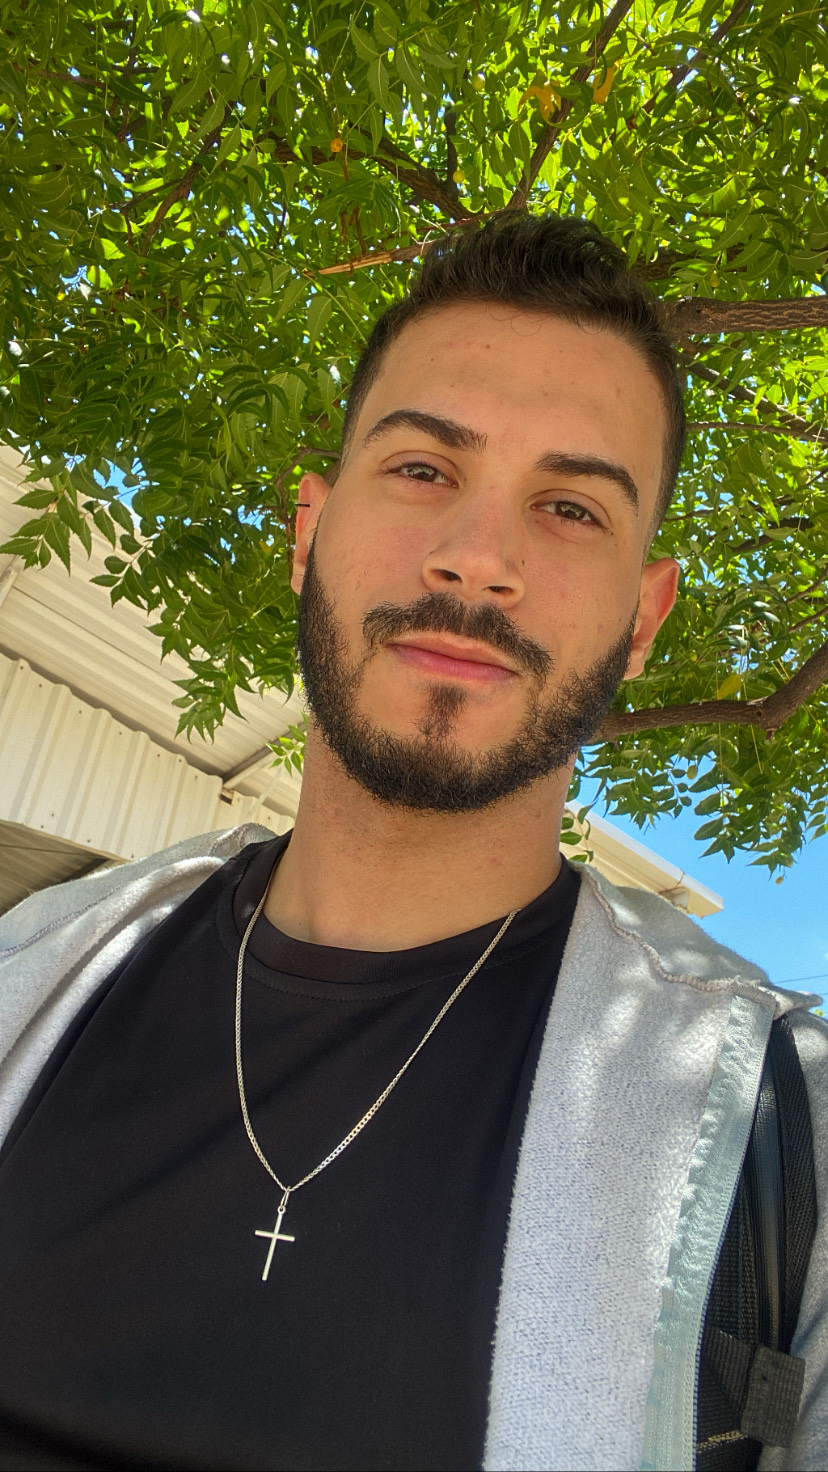
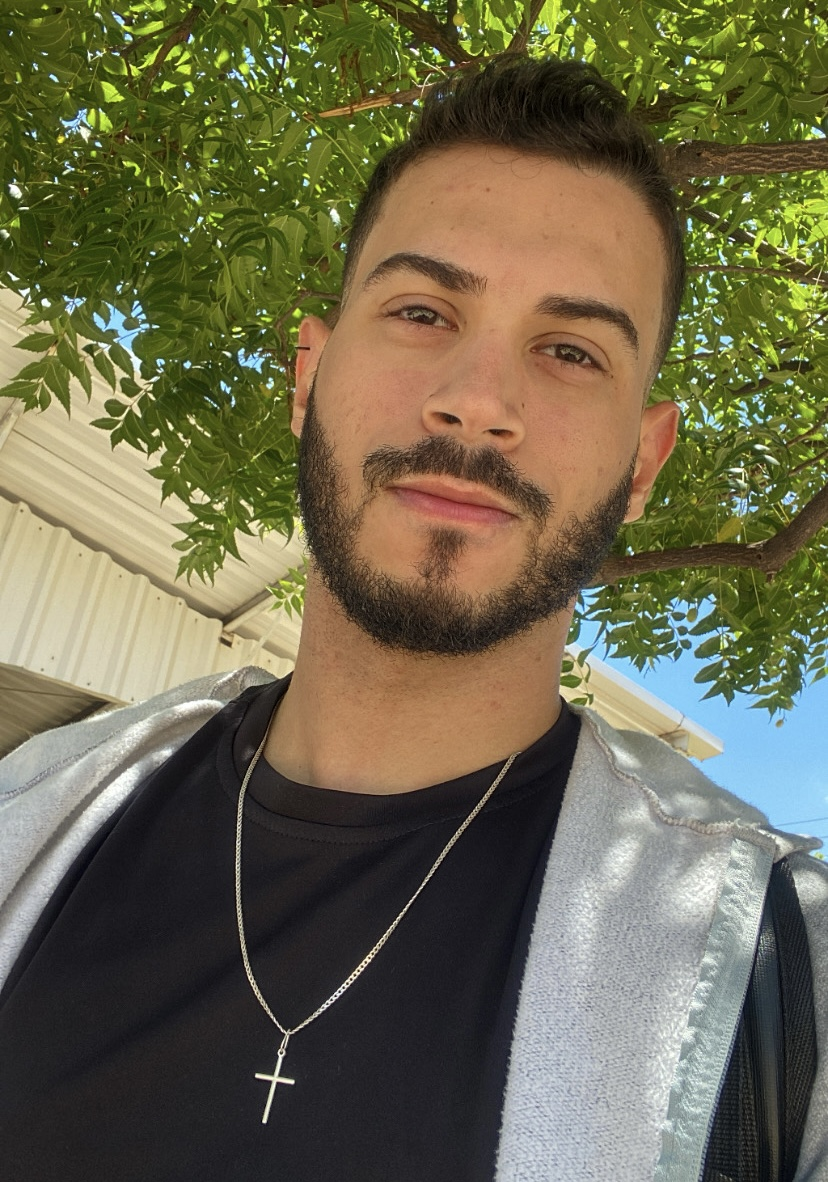
Melhorias de Interface

diff --git a/style.css b/style.css
@@ -1,7 +1,9 @@
 body {
     margin: 0;
-    padding: 4em 0;
-    background-color: #11212d;
+    padding: 0;
+    /*background-color: #11212d;*/
+    /*background-color: rgb(22,20,27);*/
+    background-color: rgb(26, 23, 32);
     color: aliceblue;
     font-family: Arial, Helvetica, sans-serif;
 }
@@ -38,8 +40,23 @@ nav.Main-Bar a:hover{
 }
 
 .Presentation{
+    padding-top: 4em;
     text-align: center;
-    margin-bottom: 8em;
+    margin-bottom: 5em;
+    position: relative;
+   
+}
+
+.Presentation img {
+    position: absolute;
+    top: 0;
+    left: 0;
+    object-fit: cover;
+    z-index: -1;
+    width: 100%;
+    height: 15em;
+    opacity: 0.06;
+
 }
 
 .Presentation span{
@@ -48,53 +65,43 @@ nav.Main-Bar a:hover{
 
 
 .Presentation p{
-    margin-top: 3em;
+    margin-top: 2em;
     font-size: 15px;
     
 }
 
 .AboutMe {
-
     background-color: rgba(22,20,27,0.6);
     text-align: center;
-    border-radius: 5px;
     margin-bottom: 8em;
 }
 
 .AboutMe div .Image {
     width: 200px;
     height: 200px;
-    border-radius: 50%;
-    overflow: hidden;
 }
-
-.AboutMe div .Image img {
-    width: 100%;
-    height: 100%;
-    object-fit: cover;
-    object-position: 60% 25%;
-}
-
 
 .AboutMe h2 {
+    padding-top: 0.3em;
     color: rgb(224, 173, 3);
 }
 
 .AboutMe div {
     display: flex;
+    /*align-items: center;*/
+
 }
 
 .AboutMe img {
-    width: 200px;
-    border-radius: 50%;
-    overflow: hidden;
+    width: 150px;
+    margin-left: 16em;
 }
 
 
 .AboutMe p {
-    width: 60%;
-    margin: 3em auto 1em auto;
-   margin-top: 3em;
+    width: 35%;
+    padding: 0 2.5em 0 2.5em;
+    text-align: justify;
 }
 
 
@@ -119,14 +126,24 @@ nav.Main-Bar a:hover{
     margin: 0em 1.5em;
     padding: 1em 2em 4em 2em;
     padding-bottom: 4em;
+    /*background-color: rgba(22,20,27,0.6);*/
+    /*background-color: #11212d;*/
     background-color: rgba(22,20,27,0.6);
     border-radius: 1.2em;
 
 }
 
+.Projects ul li a {
+    color: aliceblue;
+    text-decoration: none;
+}
+
+.Projects ul li a:hover {
+    text-decoration: underline;
+}
+
 .Contact {
     text-align: center;
-    margin-bottom: 8em;
 }
 
 .Contact h2 {
@@ -134,21 +151,34 @@ nav.Main-Bar a:hover{
 }
 
 .Contact button {
-    background-color: aliceblue;
+    background-color: rgb(224, 173, 3);
+    /*background-color: aliceblue;*/
     color: rgb(22,20,27);
     padding: 0.5em;
-    margin: 1.5em 3em;
+    margin: 1.5em 2em;
     border-radius: 1.5em;
     border-color: rgb(22,20,27);
 }
 
-.Contact button:hover {
-    background-color: rgb(224, 173, 3);
+.Contact button:hover{
+    background-color: #11212d;
 }
 
 
 .Contact a {
     text-decoration: none;
+    /*color: rgb(22,20,27);*/
     color: rgb(22,20,27);
 }
 
+.Contact a:hover {
+    color: white;
+}
+
+footer {
+    /*background-color: rgb(22,20,27);*/
+    /*background-color: #11212d;*/
+    background-color: rgba(22,20,27,0.6);
+    text-align: center;
+    padding: 0.1em 0 0.1em 0;
+}

diff --git a/index.html b/index.html
@@ -11,8 +11,8 @@
     <header>
         <img src="WA_semfundo.png" alt="logo com as letras W e A" class="Logo" >
         <nav class="Main-Bar">
-            <a href="index.html">Home</a>
-            <a href="">Sobre mim</a>
+            <a href="index.html">Início</a>
+
             <a href="">Projetos</a>
             <a href="">Contato</a>    
         </nav>
@@ -20,8 +20,9 @@
 
     <section class="Presentation">
         <h2>Olá, eu sou <span>Welison Andrade</span></h2>
-        <p class="Description">Estudante de sistemas de informação na UFPI, com a aspiração de se tornar um engenheiro de software no exterior.
+        <p class="Description">Estudante de sistemas de informação na UFPI, com o sonho de se tornar um engenheiro de software no exterior.
         </p>
+        <img src="cold_mountains.jpg" alt="background de uma montanha cheia de neve">
     </section>
 
 
@@ -29,9 +30,7 @@
     <section class="AboutMe">
         <h2>Sobre mim</h2>
         <div>
-            <div class="Image">
-                <img src="me.JPG" alt="foto de Welison Andrade">
-            </div>
+            <img src="me.JPG" alt="foto de Welison Andrade class="Image">
             <p>23 anos, Bacharelando em Sistemas de Informação e aspirante a Engenheiro de Software, minha jornada acadêmica é dedicada à exploração das complexidades da tecnologia da informação e ao aprimoramento das habilidades necessárias para enfrentar os desafios do desenvolvimento de software. Estou imerso em estudos e projetos que me permitem compreender as melhores práticas e metodologias para criar soluções digitais robustas e inovadoras.</p>
         </div>
         
@@ -41,13 +40,15 @@
     <section class="Projects">
         <h2>Projetos</h2>
         <ul>
-            <li>Exemplo 1</li>
-            <li>Exemplo 2</li>
-            <li>Exemplo 3</li>
+            <li><a href="">Exemplo 1</a></li>
+            <li><a href="">Exemplo 2</a></li>
+            <li><a href="">Exemplo 3</a></li>
+            
         </ul>
 
     </section>
 
+    <hr>
 
     <section class="Contact">
         <h2>Contato</h2>
@@ -64,5 +65,9 @@
             </button>
         </span>
     </section>
+
+    <footer>
+        <p>Welison © Copyright 2024</p>
+    </footer>
 </body>
 </html>
